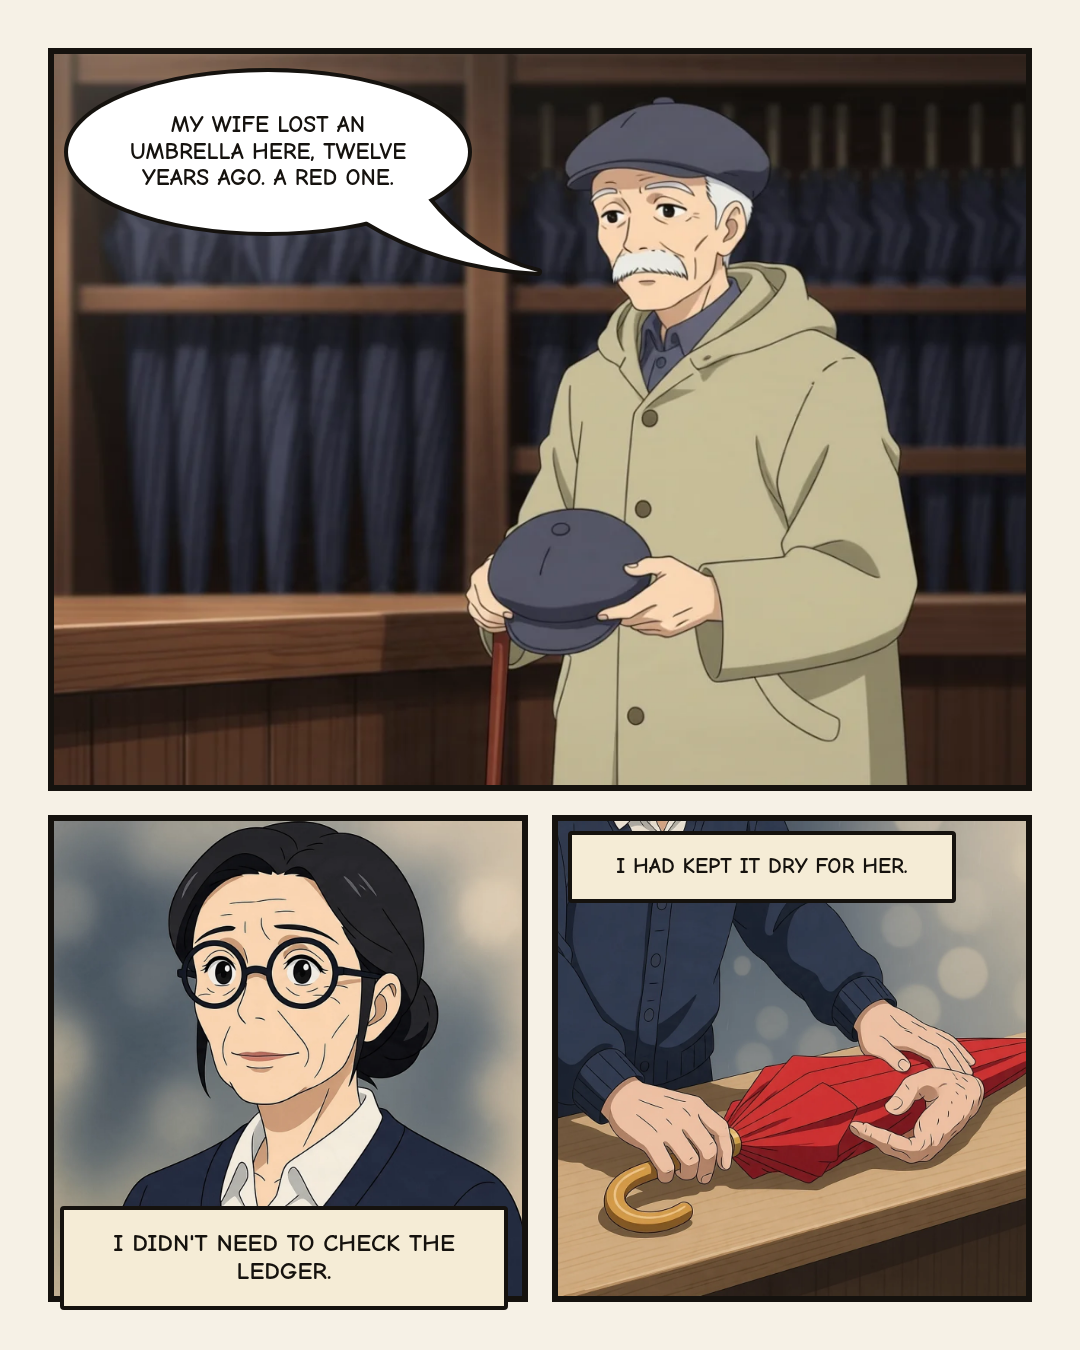
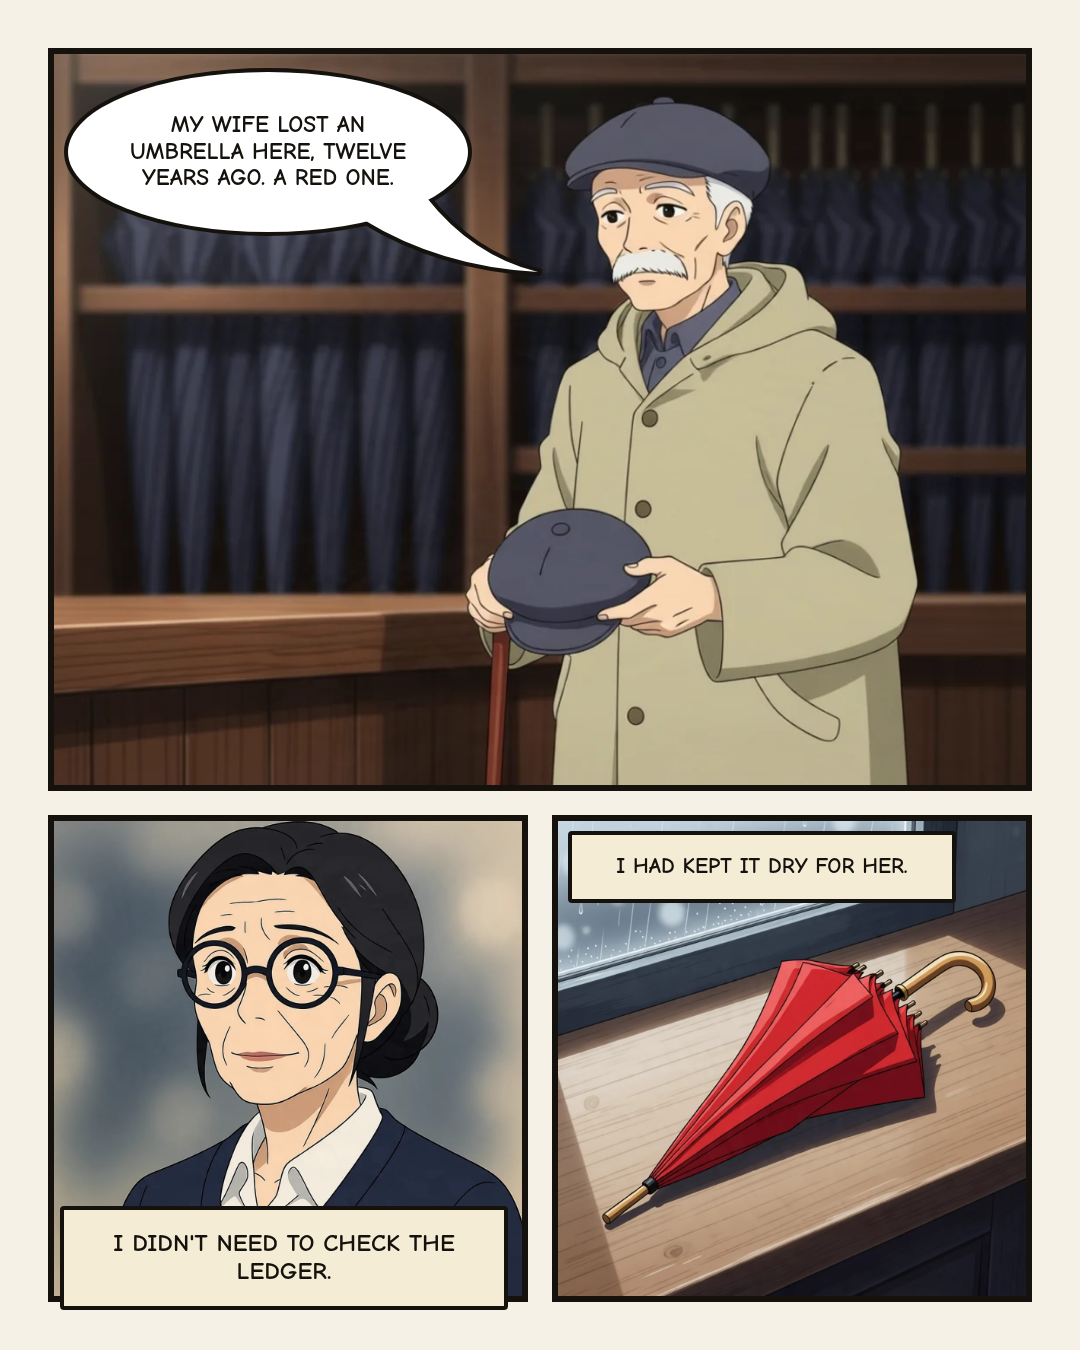
Redraw Lost Property's counter panel without hands
The hands on the umbrella were malformed. Notes the lesson for later comics.

Changed region(s): [[0.5194, 0.5911, 0.9472, 0.9644]]

diff --git a/docs/comic-notes.md b/docs/comic-notes.md
@@ -1,0 +1,10 @@
+# Comic production notes
+
+Lessons from Night Fare, Handover and Lost Property.
+
+- **Hands:** check every hand at full size before publishing. Twisted fingers and hands that belong to the wrong person are the most common fault, as with the hands on the umbrella in Lost Property's slide 4. Prefer a shot with no hands when the story allows it.
+- **Characters:** draw a model sheet first, then every panel from it. Give each character a fixed face, age and wardrobe.
+- **Props:** the reference shows the state the panel needs. An open umbrella reference makes closed umbrellas open.
+- **Object panels:** leave character-design wording out of the prompt, or faces appear in them.
+- **Empty things:** the model fills them. Frame them out and let the caption say it.
+- **Lettering:** all-caps comic lettering on paper-coloured boxes. Keep it off faces, and check each tail points at the speaker.
